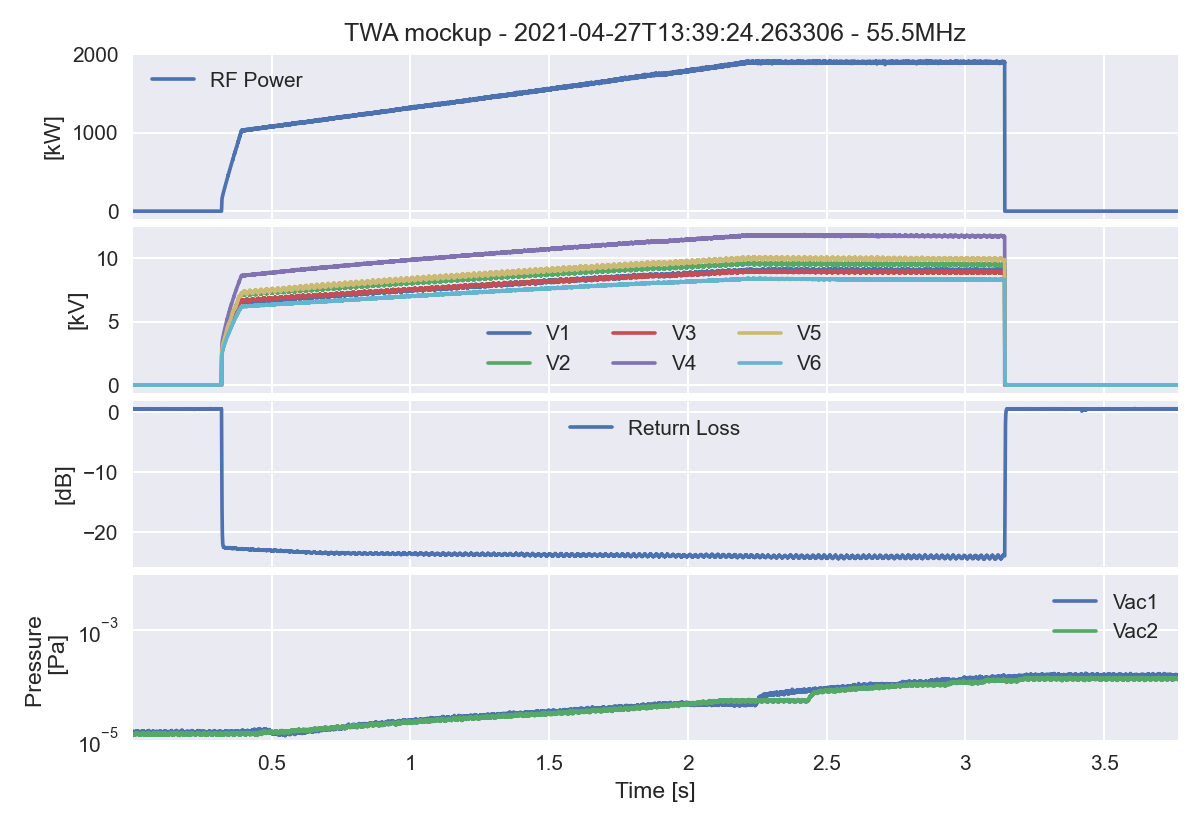
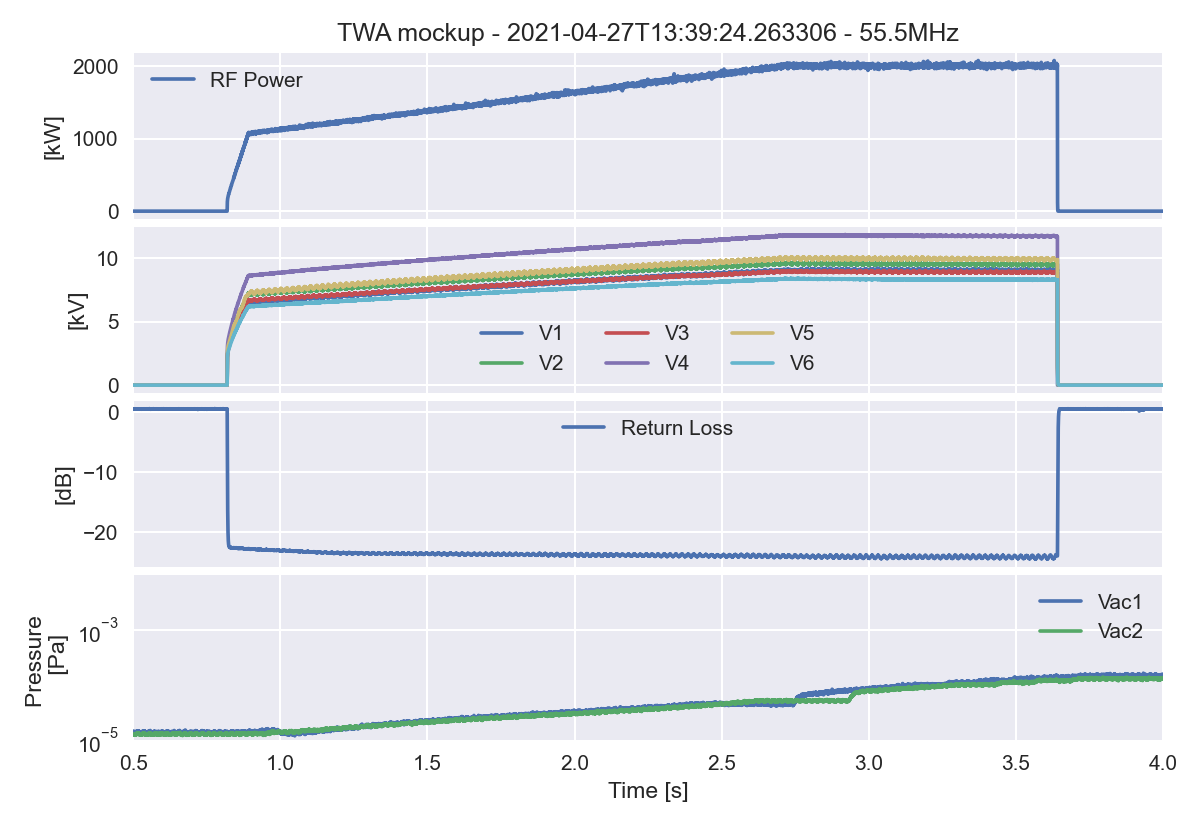
fix figure time axis and create a time basis in seconds

diff --git a/2021-04-27_figure_2000kW-2s.py b/2021-04-27_figure_2000kW-2s.py
@@ -17,14 +17,16 @@ data = TWAdata(tdms_filename)
 # title for graphs
 title = np.datetime_as_string(data._raw_data['start_time'])+' - '+str(data.fMHz)+'MHz'
 
-
+#%%
+# switch the index to seconds, nicer for figure!
+data.df.set_index('time_seconds', inplace=True)
 #%%
 # plot something
 with plt.style.context('seaborn'):
     
     fig, ax = plt.subplots(4,1, sharex=True)
     ax[0].set_title(title)
-    data.df['Pig_kW'] = data.df['Pig']/1e3
+    data.df['Pig_kW'] = data.df['Piin']/1e3
     data.df.plot(y='Pig_kW', ax=ax[0])
     ax[0].set_ylabel('[kW]')
     ax[0].legend(('RF Power',))
@@ -53,8 +55,8 @@ with plt.style.context('seaborn'):
     [a.grid(True) for a in ax]
     ax[3].grid(True, which='minor')
     ax[-1].set_xlabel('Time [s]')
-    ax[-1].set_xticklabels(['0','0.5','1','1.5','2','2.5','3','3.5', '4.0'])
-    ax[-1].set_xlim((501142338.34147763, 4264099648.1247435))  # fucking time base
+    ax[-1].set_xlim(0.5, 4.0)
+    
     fig.tight_layout()
     fig.subplots_adjust(hspace=0.05)
     fig.savefig('TWAmockup_2000kW-2s.png', dpi=150)
@@ -73,8 +75,7 @@ with plt.style.context('seaborn'):
     
     ax.grid(True)
     ax.set_xlabel('Time [s]', fontsize=16)
-    ax.set_xticklabels(['0','0.5','1','1.5','2','2.5','3','3.5', '4.0'])
-    ax.set_xlim((501142338.34147763, 4264099648.1247435))  # fucking time base
+    ax.set_xlim(0.5, 4.0)
     fig.tight_layout()
     ax.tick_params(labelsize=14)
     fig.tight_layout()

diff --git a/TWAdata/TWAdata.py b/TWAdata/TWAdata.py
@@ -65,7 +65,8 @@ class TWAdata():
             self._df['time'] = time_relative
             self._df['fMHz'] = self.fMHz
             self._df.set_index('time', inplace=True)
-
+            self._df['time_seconds'] = self._df.index.total_seconds() # time in seconds (for plots)
+            
             # Post processing
             self.raw_TOS_to_RL()
             self.raw_V_to_V()
